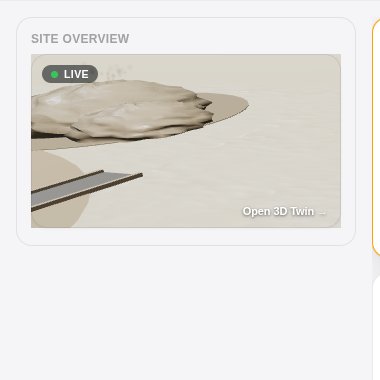
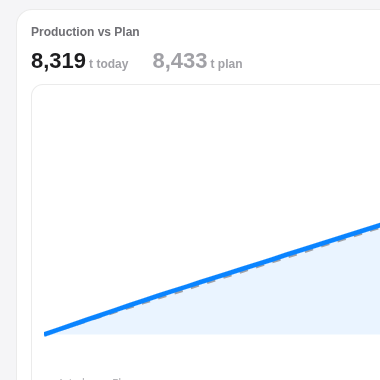
Fix dashboard preview flicker: render the scissor pass every frame
The live preview only re-rendered every 4th frame, but the composer redraws
the full canvas every frame — so 3 of 4 frames the preview hole showed the
main scene and only the 4th showed the preview camera, i.e. a hard flicker.
Now it renders every frame (like the CCTV feed, which never flickered), so the
hole is always overdrawn with the preview camera after the composer pass.
Added an isConnected guard so a detached card (tab switch) never draws.

diff --git a/app/src/components/dashboard/DashboardPreview.jsx b/app/src/components/dashboard/DashboardPreview.jsx
@@ -26,8 +26,10 @@ export function DashboardPreviewRenderer() {
   useFrame(({ gl, scene, size }) => {
     if (useDashboard.getState().mode !== 'dashboard') return       // zero cost in twin view
     const el = usePreviewEl.getState().el
-    if (!el) return
-    if ((frame.current++ % 4) !== 0) return                        // ~15 fps, reduced load
+    if (!el || !el.isConnected) return
+    // Render EVERY frame: the composer redraws the whole canvas each frame, so
+    // the hole must be re-overdrawn with the preview camera every frame or it
+    // flickers between the main scene and the preview (this was the glitch).
     const pr = el.getBoundingClientRect()
     if (pr.width < 8 || pr.height < 8) return
     const cr = gl.domElement.getBoundingClientRect()
